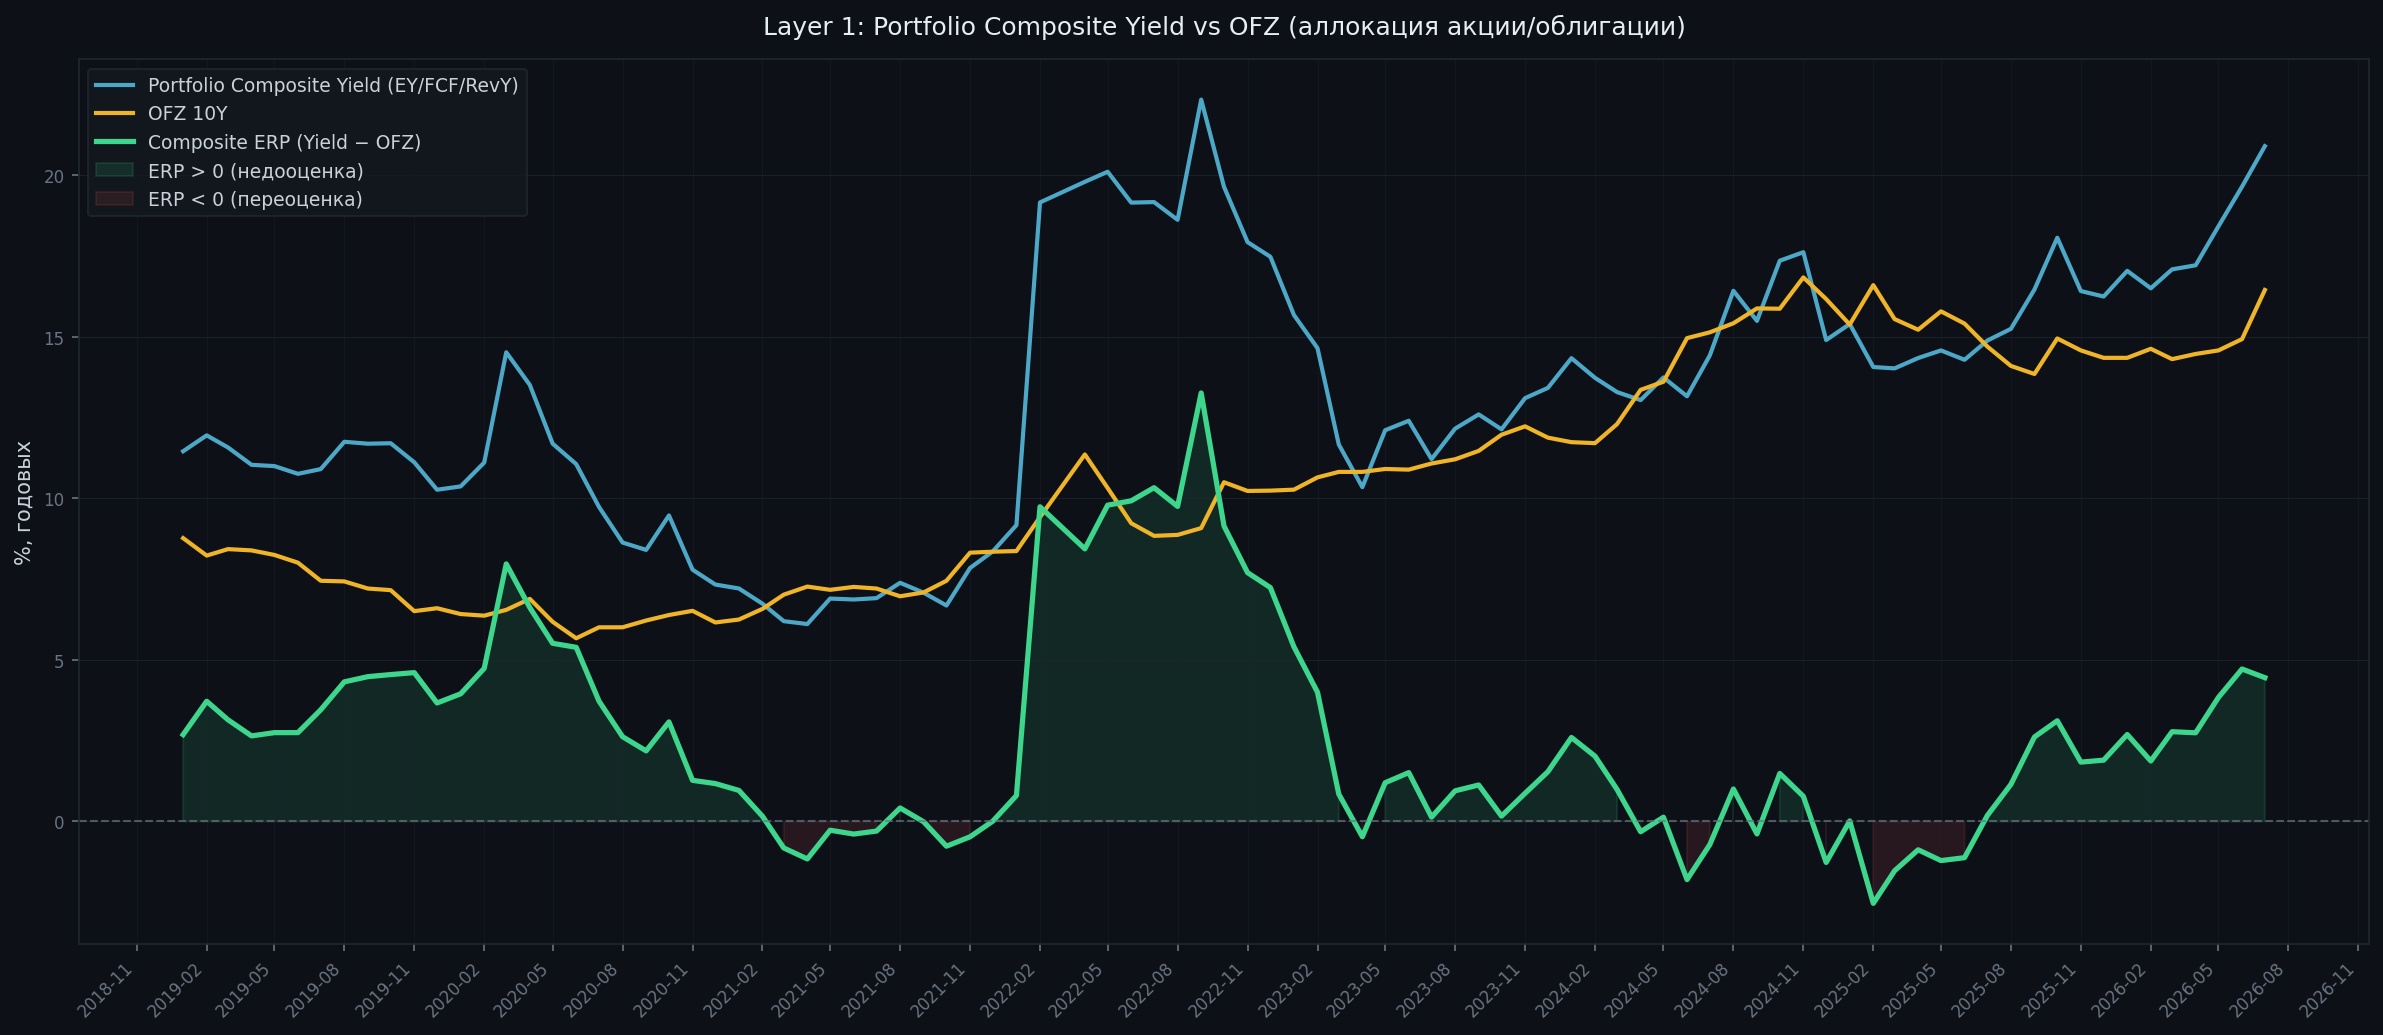
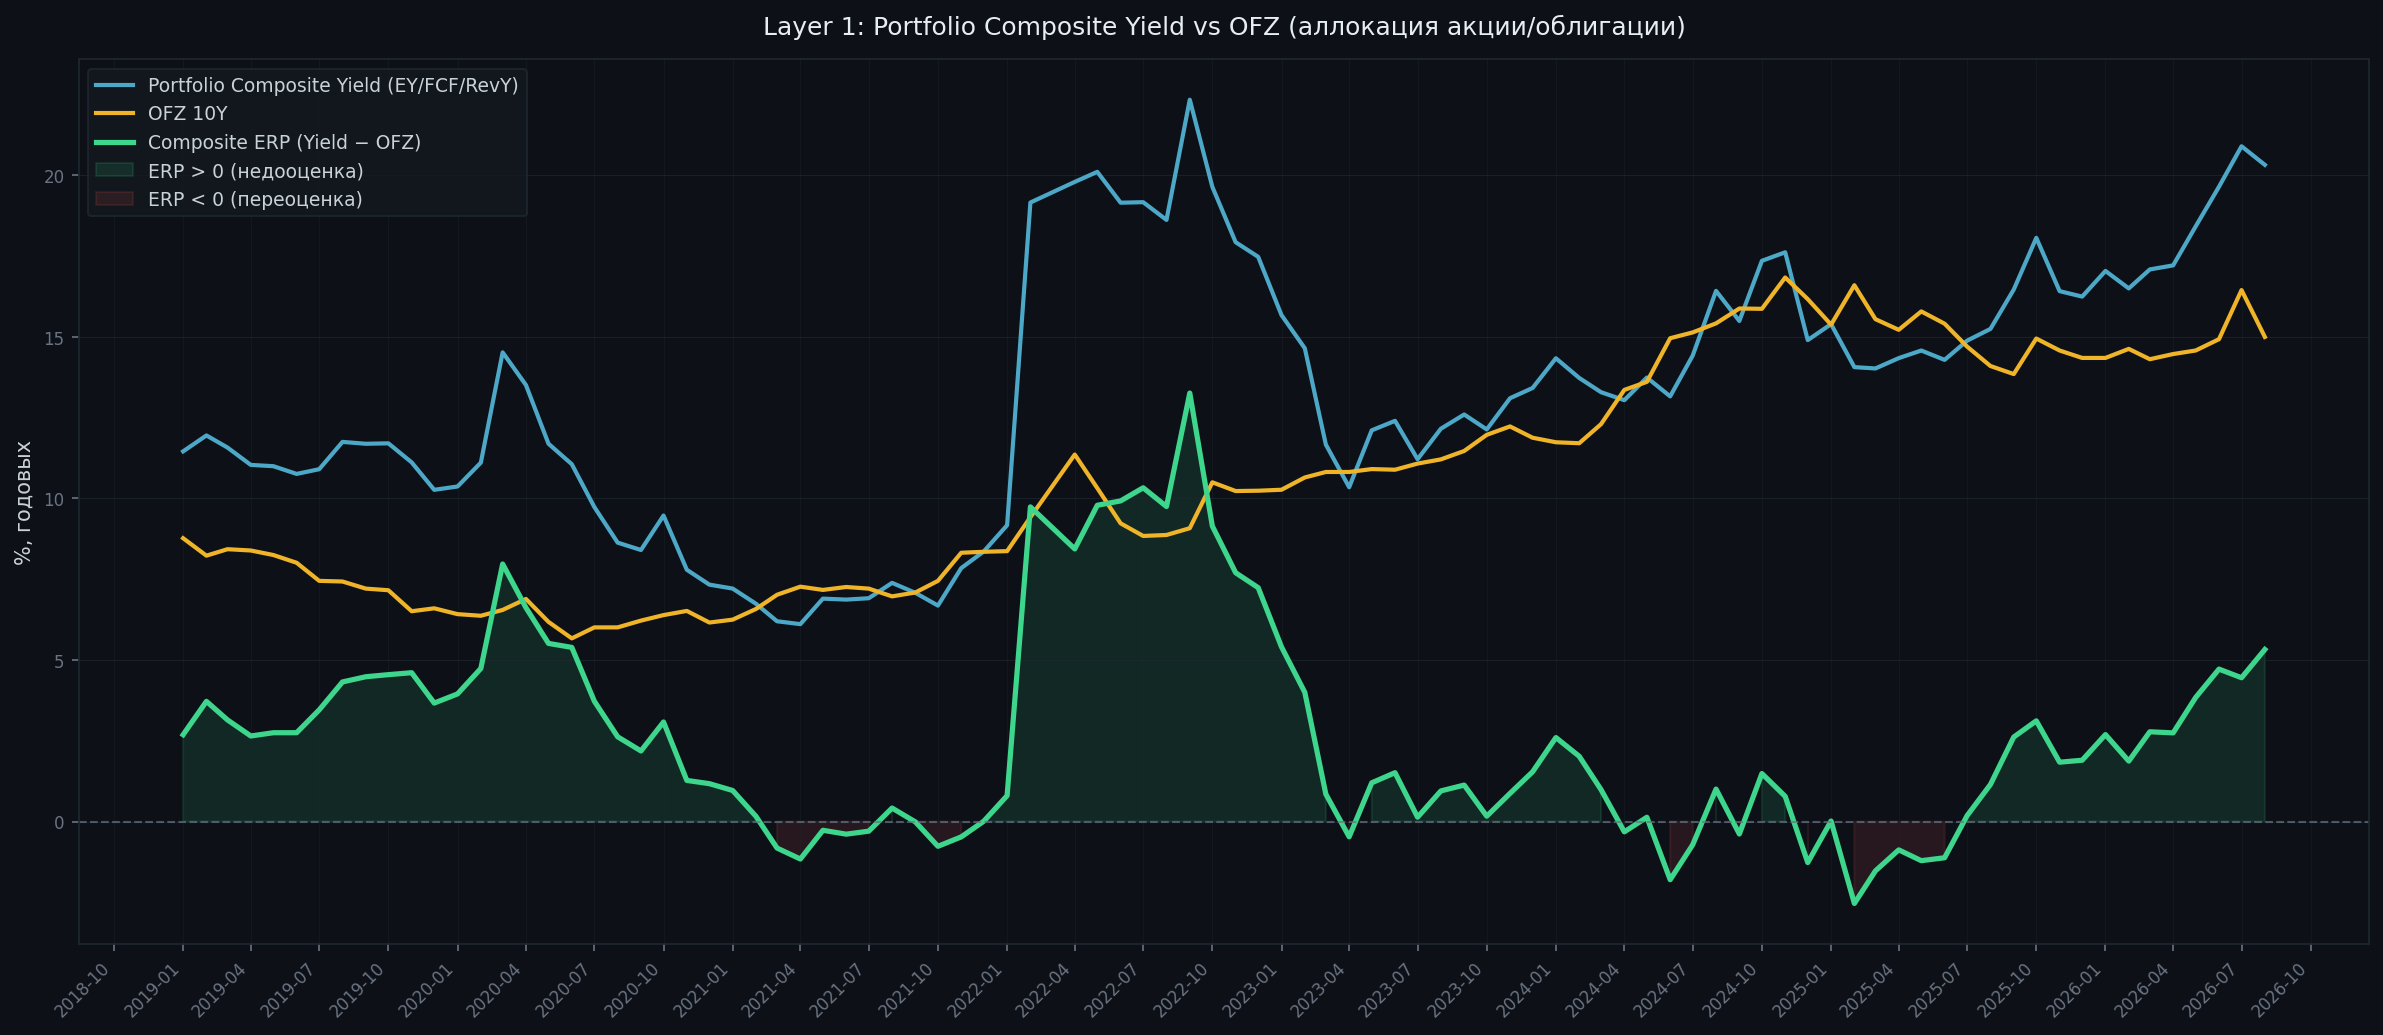
update data

diff --git a/erp_valuation/erp_full.py b/erp_valuation/erp_full.py
@@ -1,8 +1,9 @@
 import csv, re, time
 from datetime import date, timedelta
 from calendar import monthrange
+from pathlib import Path
 
-SCRATCHPAD = "/private/tmp/claude-501/-Users-ilyazykov-code-personal-buildit/ffcba325-4fdb-4f82-b4b4-957caab60f07/scratchpad"
+SCRATCHPAD = str(Path(__file__).resolve().parent.parent / "data")
 
 WEIGHTS = {
     'SBER': 0.4172,
@@ -136,17 +137,20 @@ def main():
     all_prices = {t: load_prices(t) for t in WEIGHTS}
     ofz_data = load_ofz()
 
-    # Monthly range: 2019-01 to 2026-07
+    today = date.today()
+    end_y, end_m = today.year, today.month
+
     months = []
     y, m = 2019, 1
-    while (y, m) <= (2026, 7):
+    while (y, m) <= (end_y, end_m):
         months.append((y, m))
         m += 1
         if m > 12: m, y = 1, y + 1
 
     results = []
     for (y, m) in months:
-        as_of = date(y, m, monthrange(y, m)[1])
+        is_current_month = (y, m) == (end_y, end_m)
+        as_of = today if is_current_month else date(y, m, monthrange(y, m)[1])
         month_str = f"{y}-{m:02d}"
 
         # OFZ
@@ -226,7 +230,7 @@ for r in rows:
 print(f"\nTotal months: {len(rows)}, with data: {sum(1 for r in rows if r['portfolio_ey'] is not None)}")
 
 # ── Save CSV ──────────────────────────────────────────────────────────────────
-out_csv = "/Users/ilyazykov/Downloads/erp_portfolio.csv"
+out_csv = str(Path(SCRATCHPAD) / "erp_portfolio.csv")
 fields = ['date','SBER_ey','YDEX_ey','T_ey','OZON_ey','ROSN_ey','VTBR_ey',
           'portfolio_ey','ofz10y','erp']
 with open(out_csv, 'w', newline='') as f:
@@ -269,8 +273,9 @@ try:
                 if ci == 10 and v is not None:  # ERP column
                     c.fill = PatternFill("solid", fgColor="c6efce" if v > 0 else "ffc7ce")
 
-    wb.save("/Users/ilyazykov/Downloads/erp_portfolio.xlsx")
-    print("Excel: /Users/ilyazykov/Downloads/erp_portfolio.xlsx")
+    out_xlsx = Path(__file__).resolve().parent / "erp_portfolio.xlsx"
+    wb.save(out_xlsx)
+    print(f"Excel: {out_xlsx}")
 except ImportError:
     print("openpyxl not available")
 
@@ -314,7 +319,9 @@ ax.legend(facecolor='#13191f', edgecolor='#1e2830', labelcolor='#c9d1d9', fontsi
 ax.grid(axis='y', color='#1e2830', linewidth=0.5, alpha=0.7)
 ax.grid(axis='x', color='#1e2830', linewidth=0.3, alpha=0.5)
 
+out_png = Path(__file__).resolve().parent / "charts" / "erp_portfolio.png"
+out_png.parent.mkdir(parents=True, exist_ok=True)
+
 plt.tight_layout()
-plt.savefig("/Users/ilyazykov/Downloads/erp_portfolio.png", dpi=150,
-            bbox_inches='tight', facecolor='#0d1117')
-print("Chart: /Users/ilyazykov/Downloads/erp_portfolio.png")
+plt.savefig(out_png, dpi=150, bbox_inches='tight', facecolor='#0d1117')
+print(f"Chart: {out_png}")

diff --git a/erp_valuation/composite_valuation.py b/erp_valuation/composite_valuation.py
@@ -222,16 +222,20 @@ def main():
     all_prices = {t: load_prices(t) for t in WEIGHTS}
     ofz_data = load_ofz()
 
+    today = date.today()
+    end_y, end_m = today.year, today.month
+
     months = []
     y, m = 2019, 1
-    while (y, m) <= (2026, 7):
+    while (y, m) <= (end_y, end_m):
         months.append((y, m))
         m += 1
         if m > 12: m, y = 1, y + 1
 
     results = []
     for (y, m) in months:
-        as_of = date(y, m, monthrange(y, m)[1])
+        is_current_month = (y, m) == (end_y, end_m)
+        as_of = today if is_current_month else date(y, m, monthrange(y, m)[1])
         month_str = f"{y}-{m:02d}"
 
         # OFZ
